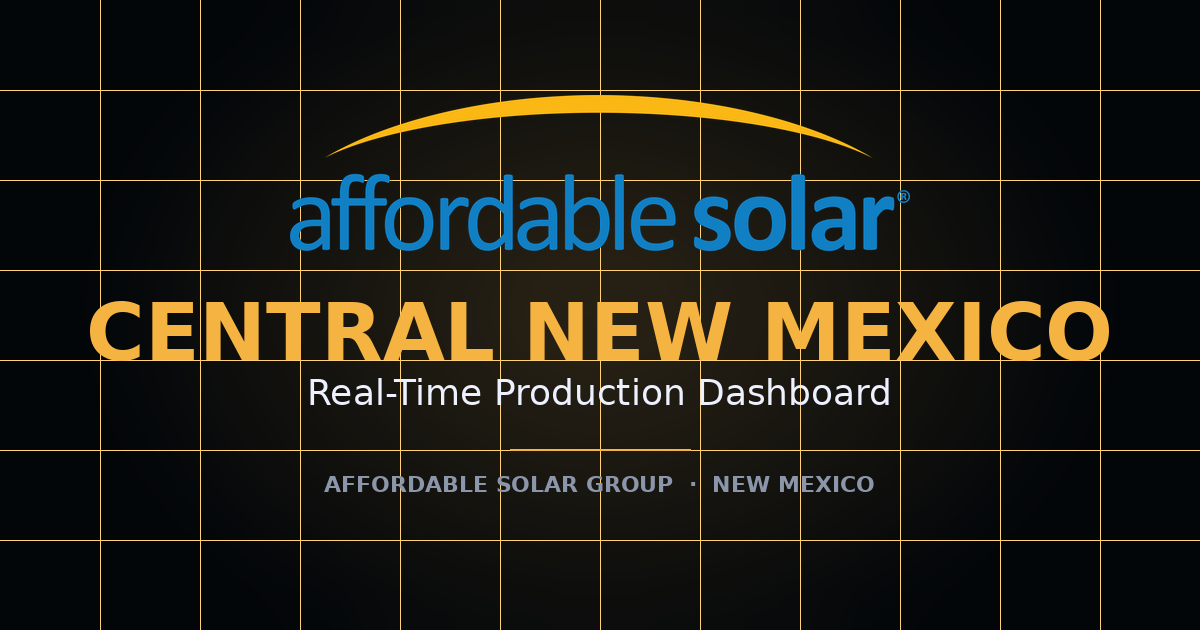
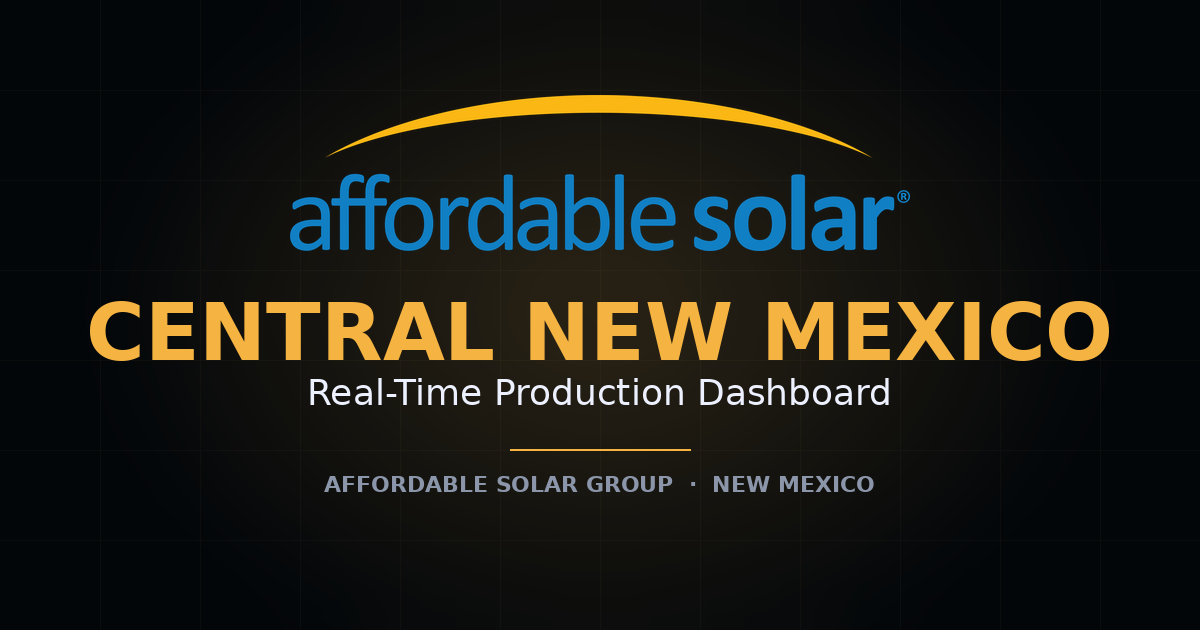
Fix grid alpha on OG cards (PIL line-draw ignored alpha on 1px lines)

diff --git a/scripts/generate-og-images.py b/scripts/generate-og-images.py
@@ -33,7 +33,7 @@ BG       = (3, 6, 9)          # matches dashboard --bg
 GOLD     = (245, 179, 65)     # matches dashboard --gold
 WHITE    = (237, 241, 255)    # matches dashboard --ink
 MUTED    = (140, 150, 170)
-GRID     = (255, 210, 120, 18)
+GRID     = (255, 210, 120, 8)
 
 # Fonts — DejaVu is present on most Linux distros (used by Pillow's default
 # install path). Fall back to PIL default if missing.
@@ -103,14 +103,20 @@ def draw_background(img: Image.Image):
     glow = glow.filter(ImageFilter.GaussianBlur(50))
     img.alpha_composite(glow)
 
-    # Grid — subtle, evenly spaced.
+    # Grid — draw on its own transparent layer so the RGBA alpha in GRID
+    # is actually honored when we composite back (PIL's draw.line silently
+    # ignores alpha on 1-pixel-wide lines, which would leave full-opacity
+    # grid lines no matter what alpha we set).
+    grid_layer = Image.new("RGBA", (W, H), (0, 0, 0, 0))
+    gdraw = ImageDraw.Draw(grid_layer)
     cols, rows = 12, 7
     for i in range(1, cols):
         x = int(W * i / cols)
-        draw.line([(x, 0), (x, H)], fill=GRID, width=1)
+        gdraw.line([(x, 0), (x, H)], fill=GRID, width=1)
     for i in range(1, rows):
         y = int(H * i / rows)
-        draw.line([(0, y), (W, y)], fill=GRID, width=1)
+        gdraw.line([(0, y), (W, y)], fill=GRID, width=1)
+    img.alpha_composite(grid_layer)
 
 
 def paste_logo(img: Image.Image, y: int = 80) -> int:
